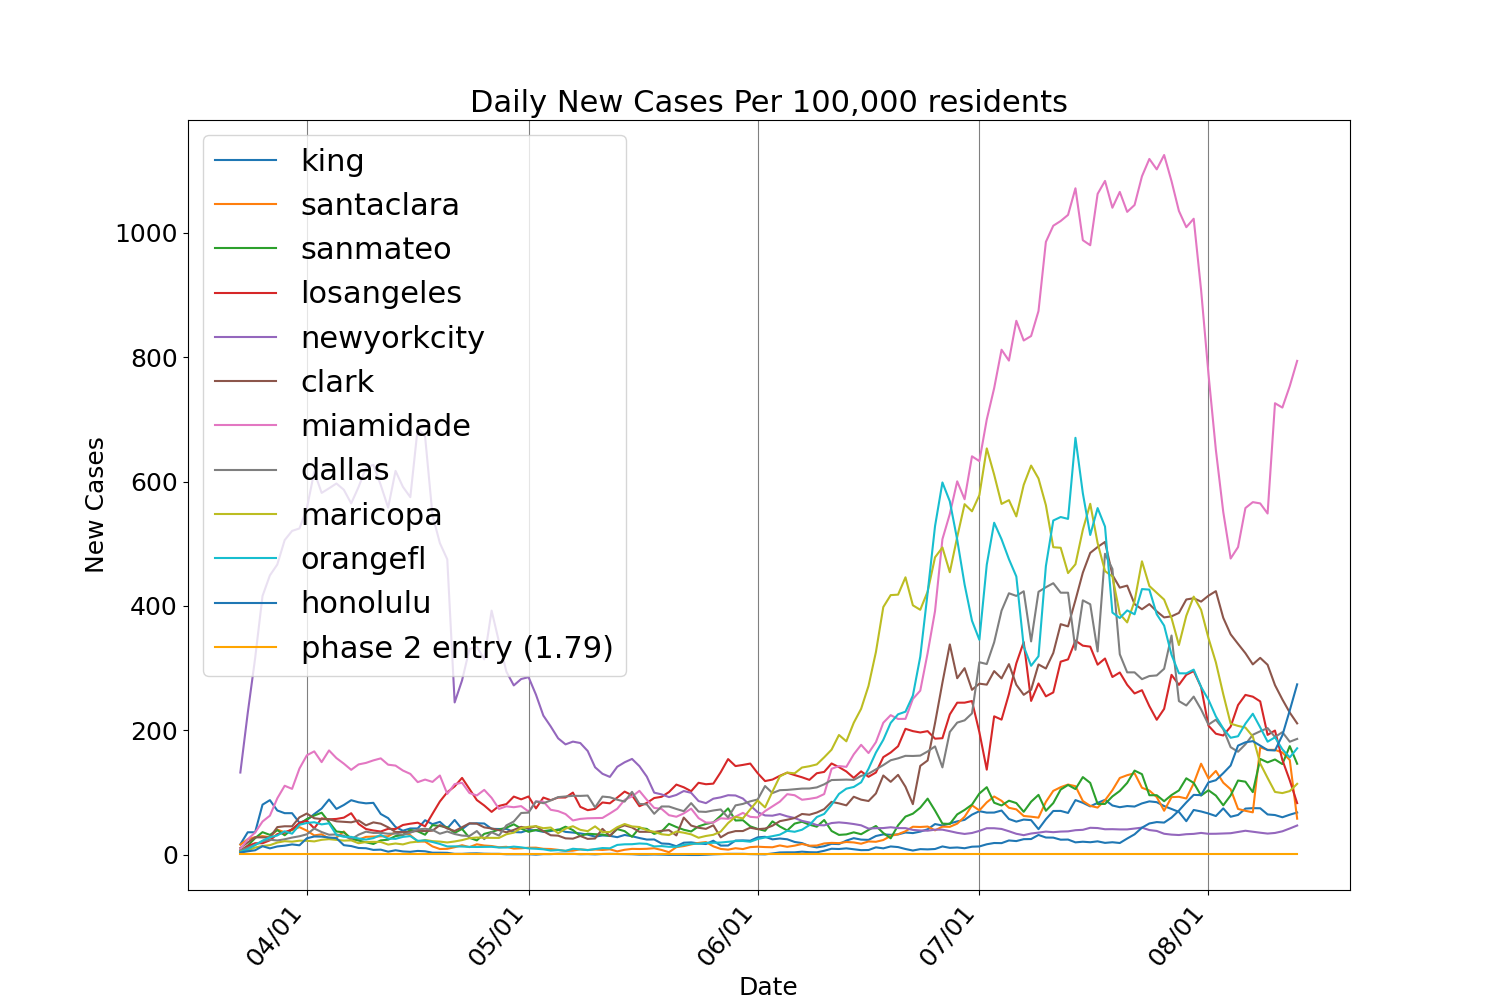
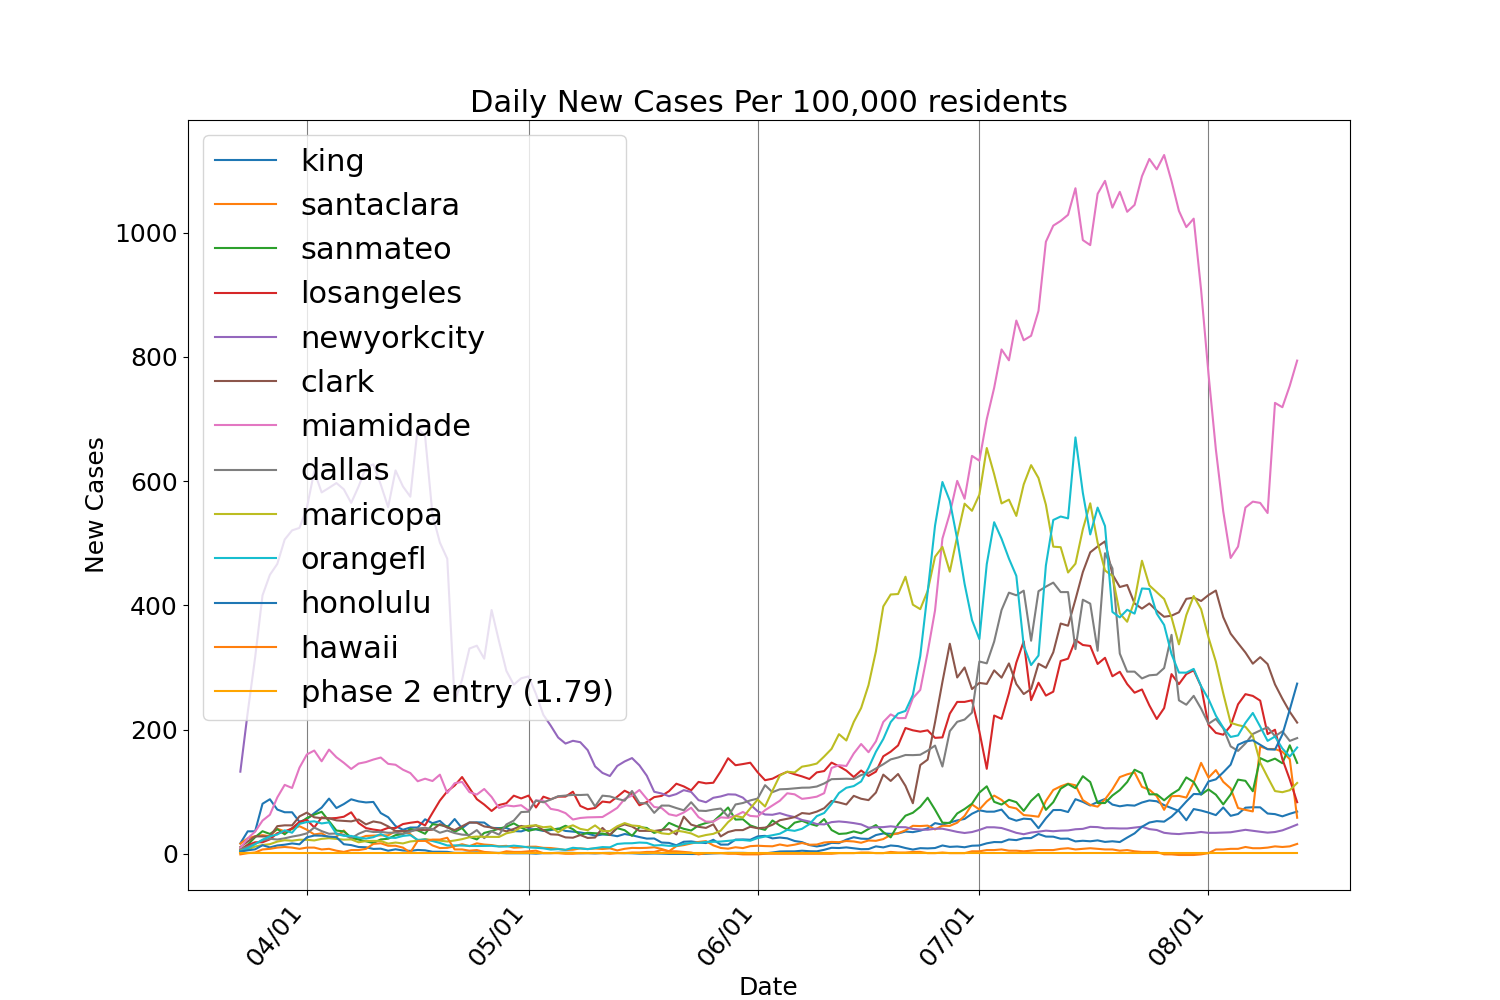
daily bot

diff --git a/docs/index.html b/docs/index.html
@@ -35,92 +35,100 @@
 <li><a href="#maricopa"> Maricopa County, Arizona </a></li>
 <li><a href="#orangefl"> Orange County, Florida </a></li>
 <li><a href="#honolulu"> Honolulu County, Hawaii </a></li>
+<li><a href="#hawaii"> Hawaii County, Hawaii </a></li>
 </ul>
 
 <div class="row"><h4>All Counties</h4></div>
 
 <div class="row">
        <div class="col-6">
-            <a href="images/combine.png?1597432335">
-            <img src="images/combine.png?1597432335"></a>
+            <a href="images/combine.png?1597459995">
+            <img src="images/combine.png?1597459995"></a>
        </div>
 </div>
 
     <div class="row"><h4>King County</h4></div>
     <div class="row">
         <a name="king"></a>
-        <div class="col-6"><a href="images/king_1.png?1597432335"><img src="images/king_1.png?1597432335"></a></div>
-        <div class="col-6"><a href="images/king_2.png?1597432335"><img src="images/king_2.png?1597432335"></a></div>
+        <div class="col-6"><a href="images/king_1.png?1597459995"><img src="images/king_1.png?1597459995"></a></div>
+        <div class="col-6"><a href="images/king_2.png?1597459995"><img src="images/king_2.png?1597459995"></a></div>
     </div>
     
     <div class="row"><h4>Santa Clara County</h4></div>
     <div class="row">
         <a name="santaclara"></a>
-        <div class="col-6"><a href="images/santaclara_1.png?1597432335"><img src="images/santaclara_1.png?1597432335"></a></div>
-        <div class="col-6"><a href="images/santaclara_2.png?1597432335"><img src="images/santaclara_2.png?1597432335"></a></div>
+        <div class="col-6"><a href="images/santaclara_1.png?1597459995"><img src="images/santaclara_1.png?1597459995"></a></div>
+        <div class="col-6"><a href="images/santaclara_2.png?1597459995"><img src="images/santaclara_2.png?1597459995"></a></div>
     </div>
     
     <div class="row"><h4>San Mateo County</h4></div>
     <div class="row">
         <a name="sanmateo"></a>
-        <div class="col-6"><a href="images/sanmateo_1.png?1597432335"><img src="images/sanmateo_1.png?1597432335"></a></div>
-        <div class="col-6"><a href="images/sanmateo_2.png?1597432335"><img src="images/sanmateo_2.png?1597432335"></a></div>
+        <div class="col-6"><a href="images/sanmateo_1.png?1597459995"><img src="images/sanmateo_1.png?1597459995"></a></div>
+        <div class="col-6"><a href="images/sanmateo_2.png?1597459995"><img src="images/sanmateo_2.png?1597459995"></a></div>
     </div>
     
     <div class="row"><h4>Los Angeles County</h4></div>
     <div class="row">
         <a name="losangeles"></a>
-        <div class="col-6"><a href="images/losangeles_1.png?1597432335"><img src="images/losangeles_1.png?1597432335"></a></div>
-        <div class="col-6"><a href="images/losangeles_2.png?1597432335"><img src="images/losangeles_2.png?1597432335"></a></div>
+        <div class="col-6"><a href="images/losangeles_1.png?1597459995"><img src="images/losangeles_1.png?1597459995"></a></div>
+        <div class="col-6"><a href="images/losangeles_2.png?1597459995"><img src="images/losangeles_2.png?1597459995"></a></div>
     </div>
     
     <div class="row"><h4>New York City County</h4></div>
     <div class="row">
         <a name="newyorkcity"></a>
-        <div class="col-6"><a href="images/newyorkcity_1.png?1597432335"><img src="images/newyorkcity_1.png?1597432335"></a></div>
-        <div class="col-6"><a href="images/newyorkcity_2.png?1597432335"><img src="images/newyorkcity_2.png?1597432335"></a></div>
+        <div class="col-6"><a href="images/newyorkcity_1.png?1597459995"><img src="images/newyorkcity_1.png?1597459995"></a></div>
+        <div class="col-6"><a href="images/newyorkcity_2.png?1597459995"><img src="images/newyorkcity_2.png?1597459995"></a></div>
     </div>
     
     <div class="row"><h4>Clark County</h4></div>
     <div class="row">
         <a name="clark"></a>
-        <div class="col-6"><a href="images/clark_1.png?1597432335"><img src="images/clark_1.png?1597432335"></a></div>
-        <div class="col-6"><a href="images/clark_2.png?1597432335"><img src="images/clark_2.png?1597432335"></a></div>
+        <div class="col-6"><a href="images/clark_1.png?1597459995"><img src="images/clark_1.png?1597459995"></a></div>
+        <div class="col-6"><a href="images/clark_2.png?1597459995"><img src="images/clark_2.png?1597459995"></a></div>
     </div>
     
     <div class="row"><h4>Miami-Dade County</h4></div>
     <div class="row">
         <a name="miamidade"></a>
-        <div class="col-6"><a href="images/miamidade_1.png?1597432335"><img src="images/miamidade_1.png?1597432335"></a></div>
-        <div class="col-6"><a href="images/miamidade_2.png?1597432335"><img src="images/miamidade_2.png?1597432335"></a></div>
+        <div class="col-6"><a href="images/miamidade_1.png?1597459995"><img src="images/miamidade_1.png?1597459995"></a></div>
+        <div class="col-6"><a href="images/miamidade_2.png?1597459995"><img src="images/miamidade_2.png?1597459995"></a></div>
     </div>
     
     <div class="row"><h4>Dallas County</h4></div>
     <div class="row">
         <a name="dallas"></a>
-        <div class="col-6"><a href="images/dallas_1.png?1597432335"><img src="images/dallas_1.png?1597432335"></a></div>
-        <div class="col-6"><a href="images/dallas_2.png?1597432335"><img src="images/dallas_2.png?1597432335"></a></div>
+        <div class="col-6"><a href="images/dallas_1.png?1597459995"><img src="images/dallas_1.png?1597459995"></a></div>
+        <div class="col-6"><a href="images/dallas_2.png?1597459995"><img src="images/dallas_2.png?1597459995"></a></div>
     </div>
     
     <div class="row"><h4>Maricopa County</h4></div>
     <div class="row">
         <a name="maricopa"></a>
-        <div class="col-6"><a href="images/maricopa_1.png?1597432335"><img src="images/maricopa_1.png?1597432335"></a></div>
-        <div class="col-6"><a href="images/maricopa_2.png?1597432335"><img src="images/maricopa_2.png?1597432335"></a></div>
+        <div class="col-6"><a href="images/maricopa_1.png?1597459995"><img src="images/maricopa_1.png?1597459995"></a></div>
+        <div class="col-6"><a href="images/maricopa_2.png?1597459995"><img src="images/maricopa_2.png?1597459995"></a></div>
     </div>
     
     <div class="row"><h4>Orange County</h4></div>
     <div class="row">
         <a name="orangefl"></a>
-        <div class="col-6"><a href="images/orangefl_1.png?1597432335"><img src="images/orangefl_1.png?1597432335"></a></div>
-        <div class="col-6"><a href="images/orangefl_2.png?1597432335"><img src="images/orangefl_2.png?1597432335"></a></div>
+        <div class="col-6"><a href="images/orangefl_1.png?1597459995"><img src="images/orangefl_1.png?1597459995"></a></div>
+        <div class="col-6"><a href="images/orangefl_2.png?1597459995"><img src="images/orangefl_2.png?1597459995"></a></div>
     </div>
     
     <div class="row"><h4>Honolulu County</h4></div>
     <div class="row">
         <a name="honolulu"></a>
-        <div class="col-6"><a href="images/honolulu_1.png?1597432335"><img src="images/honolulu_1.png?1597432335"></a></div>
-        <div class="col-6"><a href="images/honolulu_2.png?1597432335"><img src="images/honolulu_2.png?1597432335"></a></div>
+        <div class="col-6"><a href="images/honolulu_1.png?1597459995"><img src="images/honolulu_1.png?1597459995"></a></div>
+        <div class="col-6"><a href="images/honolulu_2.png?1597459995"><img src="images/honolulu_2.png?1597459995"></a></div>
+    </div>
+    
+    <div class="row"><h4>Hawaii County</h4></div>
+    <div class="row">
+        <a name="hawaii"></a>
+        <div class="col-6"><a href="images/hawaii_1.png?1597459995"><img src="images/hawaii_1.png?1597459995"></a></div>
+        <div class="col-6"><a href="images/hawaii_2.png?1597459995"><img src="images/hawaii_2.png?1597459995"></a></div>
     </div>
     
   </div>
